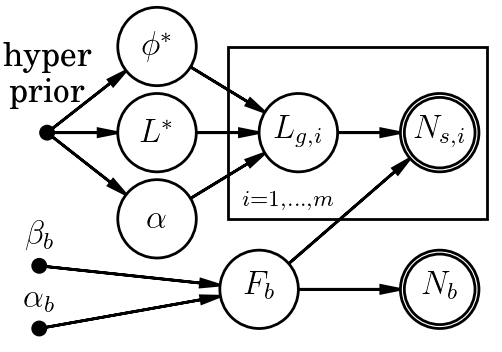
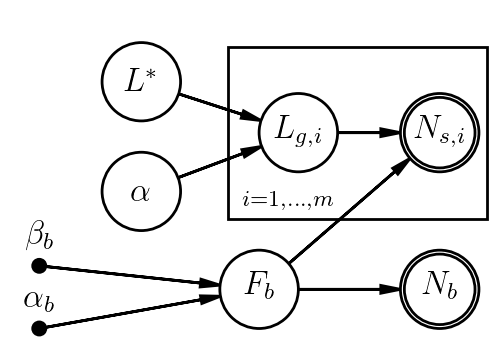
tweaks to hierarchical figure; closes #137

diff --git a/graphics/hier.py b/graphics/hier.py
@@ -48,16 +48,10 @@ pgm.add_node(daft.Node("Nb", r"$N_b$", 2.8, 0.4, observed=True))
 pgm.add_edge("alphab", "Fb")
 pgm.add_edge("betab", "Fb")
 pgm.add_edge("Fb", "Nb")
-pgm.add_node(daft.Node("hyperprior", "hyper\nprior", 0.3, 1.4, offset=[0,5], fixed=True))
-pgm.add_node(daft.Node("phistar", r"$\phi^\ast$", 1.0, 1.95))
-pgm.add_node(daft.Node("Lstar", r"$L^\ast$", 1.0, 1.4))
-pgm.add_node(daft.Node("alpha", r"$\alpha$", 1.0, 0.85))
+pgm.add_node(daft.Node("Lstar", r"$L^\ast$", 0.9, 1.725)) # 1.4
+pgm.add_node(daft.Node("alpha", r"$\alpha$", 0.9, 1.025)) # 0.85
 pgm.add_node(daft.Node("Lg", r"$L_{g,i}$", 1.9, 1.4))
 pgm.add_node(daft.Node("Ns", r"$N_{s,i}$", 2.8, 1.4, observed=True))
-pgm.add_edge("hyperprior", "phistar")
-pgm.add_edge("hyperprior", "Lstar")
-pgm.add_edge("hyperprior", "alpha")
-pgm.add_edge("phistar", "Lg")
 pgm.add_edge("Lstar", "Lg")
 pgm.add_edge("alpha", "Lg")
 pgm.add_edge("Fb", "Ns")
